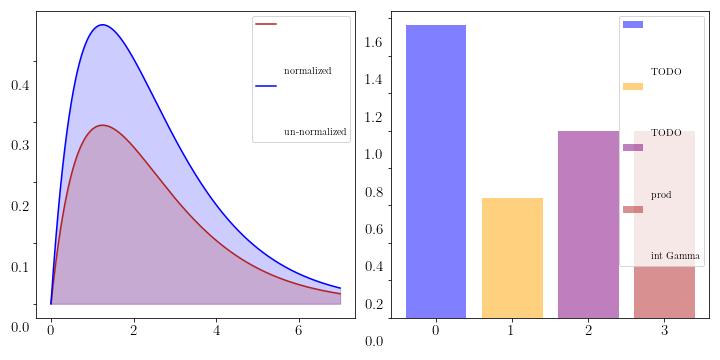
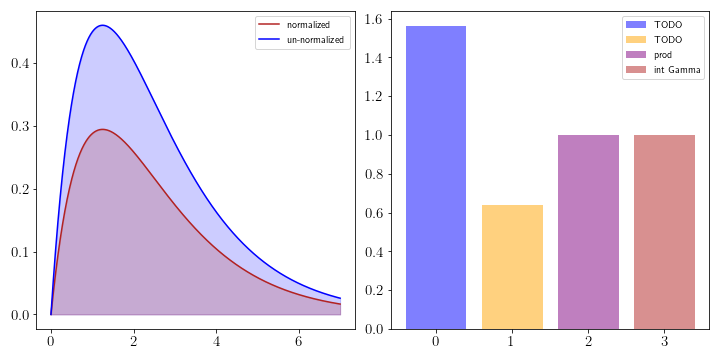
updates ExpFam

diff --git a/_posts/2021-05-01-ExpFam_tutorial.md b/_posts/2021-05-01-ExpFam_tutorial.md
@@ -17,10 +17,12 @@ Exponential family distributions are important for many classical machine learni
 
 A probability density function (pdf) that can be written in the form 
 
-\begin{align}\label{EF}
+$$
+\begin{aligned}\label{EF}
 p(x) &= h(x)\cdot \exp\left(w^\top \phi(x) - \log Z(w) \right) \\
-\qquad\text{where}\qquad Z(w)&:= \int_{\mathbf{X}} \exp\left(w^\top \phi(x)\right) \,dh(x)
-\end{align}
+\qquad\text{where}\qquad Z(w)&:= \int_{\mathbf{X}} h(x)\exp\left(w^\top \phi(x)\right) \,dx
+\end{aligned}
+$$
 
 is called an exponential family where $$\phi(x): \mathbb{X} \rightarrow \mathbb{R}^d$$ is called sufficient statistics, $$w \in \mathcal{D} \subseteq \mathbb{R}^d$$: natural parameters where $$\mathcal{D}$$ is the domain of valid parameters, $$\log Z(w): \mathbb{R}^d \rightarrow \mathbb{R}$$: (log) partition function (normalization constant), and $$h(x): \mathbb{X} \rightarrow \mathbb{R}_{+}$$: base measure.
 
@@ -49,14 +51,21 @@ to rediscover the mean and standard deviation which are also sufficient estimato
 
 The **natural parameters** are the set of parameters $$w$$ for which $$p(x)$$ is defined. They are related to but usually not the same as the parameters of the probability distribution. The parameters of the normal distribution, for example, are its mean $$\mu$$ and standard deviation $$\sigma$$. Its natural parameters, however, are $$w_1 = \frac{\mu}{\sigma^2}$$ and $$w_2 = -\frac{1}{2\sigma^2}$$. 
 
-The **base measure** is the most fuzzy part of exponential families in my experience. This is because I can arbitrarily shift values between the natural parameters and the base measure. For example, the following three equations are all possible legitimate definitions of the Beta distribution in exponential family form. 
+The **base measure** is the most fuzzy part of exponential families in my experience. This is because I can arbitrarily shift values between the natural parameters and the base measure. For example, the following three equations are all possible legitimate definitions of the Beta distribution in exponential family form but they have different base measures and natural parameters.
 
-TODO example of the Beta distribution. 
+$$
+\begin{aligned}
+	\mathcal{B}(x, \alpha, \beta) &= 1 \cdot \exp\left[(\alpha-1)\log(x) + (\beta-1)\log(1-x) - \log B(\alpha, \beta) \right] \\
+	&= \frac{1}{x(x-1)} \exp\left[(\alpha)\log(x) + (\beta)\log(1-x) - \log B(\alpha, \beta) \right] \\
+	&= \frac{1}{x^2(x-1)^2} \exp\left[(\alpha+1)\log(x) + (\beta+1)\log(1-x) - \log B(\alpha, \beta) \right]
+\end{aligned}
+$$
 
 However, the most reasonable definition is one where we push all "left-over" parts from the natural parameters into the base measure, e.g. the $$-1$$ terms in the Beta distribution. The reason why it is called "base-measure" is that if you set your natural parameters $$w$$ to 0, everything that's left is your base. Similarly, you could say that changing your natural parameters $$w$$ can be seen as updating your base measure $$h(x)$$. 
 
-The **log-partition function:** is the most underrated part of exponential families in my opinion. In the beginning I perceived it as "just a normalizing constant" such that your distribution integrates to 1. However, the fact that it is available in closed form combined with the structure of exponential families yields very powerful properties. I will discuss them further down in more detail but, in short, the log partition function allows for efficient computation of the moments through derivation instead of integration. This is a game changer because derivation is usually much easier than integration. To understand the normalizing effect of the log partition function consider the following figure where the TODO distribution has been plotted with and without the normalizing constant. 
-TODO: equations of pdfs with and without Z. 
+The **log-partition function:** is the most underrated part of exponential families in my opinion. In the beginning I perceived it as "just a normalizing constant" such that your distribution integrates to 1. However, the fact that it is available in closed form combined with the structure of exponential families yields very powerful properties. I will discuss them further down in more detail but, in short, the log partition function allows for efficient computation of the moments through derivation instead of integration. This is a game changer because derivation is usually much easier than integration. To understand the normalizing effect of the log partition function consider the following figure where the Gamma distribution has been plotted with and without the normalizing constant. 
+
+TODO: naming scheme
 
 <figure>
   <img src="/img/ExpFam_Vis/log_partition_gamma.png"/>
@@ -72,10 +81,12 @@ Exponential Families have a lot of interesting properties. I chose a small selec
 
 Due to the properties of the exponential function, the multiplication and division of exponential family PDFs can be done in closed form as long as the resulting natural parameters are valid. If we have an exponential family with two different parameterizations $$w_1$$ and $$w_2$$. Then we can write
 
-$$\begin{align}
+$$
+\begin{aligned}
 p_1(x) \cdot p_2(x) &= \frac{1}{Z} \exp((w_1 + c) \phi(x)) \cdot \frac{1}{Z} \exp((w_2 + c) \phi(x)) \\
 	&= \frac{1}{Z'} \exp((w' + c') \phi(x))
-\end{align}$$
+\end{aligned}
+$$
 
 which is again in the form of the same exponential family. A similar result can be derived for division just that $$w' = w_1 - w_2$$ instead of $$w' = w_1 + w_2$$. Of course, the $$w'$$ have to be valid parameters, e.g. the variance of a Gaussian cannot be negative. To see this property visually for the Beta and Normal distribution consider the following figure.
 
@@ -115,11 +126,16 @@ The posterior updates have a very intuitive interpretation. If we have more data
 
 #### Mean of a Normal (with known variance)
 
-The conjugate prior for the **mean** of a Gaussian (**not** the entire Gaussian distribution) is a Gaussian. In other words, the more data points you have from a Gaussian distribution the more certain you are about its mean. 
+The conjugate prior for the **mean** of a Gaussian (**not** the entire Gaussian distribution) is a Gaussian. In other words, the more data points you have from a Gaussian distribution the more certain you are about its mean. The update equations for this setup are
 
-TODO update equation
+$$
+\begin{aligned}
+	v' &= \frac{1}{\frac{1}{\sigma_0^2} + \frac{n}{\sigma^2}} \\
+	m' &= v' \cdot \left(\frac{\mu_0}{\sigma_0^2} + \frac{\sum_i x_i}{\sigma^2} \right)
+\end{aligned}
+$$
 
-TODO GIF for normal
+![](/img/ExpFam_Vis/Normal_mean.gif)
 
 Our goal is to estimate the mean of the Gaussian distribution on the right, i.e. the red line. In the beginning we have no clue about its position and start with a standard normal prior (blue line on the left). The more samples (black) we see from the true distribution, the more our posterior estimate for the mean (red line on the left) gets closer to the true mean and its variance decreases. 
 
@@ -127,7 +143,7 @@ Our goal is to estimate the mean of the Gaussian distribution on the right, i.e.
 
 The Gamma is a distribution over positive quantities. It is a conjugate prior to the rate parameter of<a href='https://en.wikipedia.org/wiki/Poisson_distribution'>Poisson</a> likelihoods, which are discrete distributions over rare events, e.g. earth quakes. So if you have count data of earth quakes and you assume them to be generated by a Poisson distribution you can get a posterior distribution over its rate parameter with $$\alpha' = \alpha + \sum_i x_i$$ and $$\beta' = beta + n$$
 
-TODO: GIF for Gamma with Poisson
+![](/img/ExpFam_Vis/Gamma_Poisson.gif)
 
 We find that with more data the posterior distribution over the $$\lambda$$ rate parameter gets closer to the true value of 0.5 and the uncertainty decreases. 
 
@@ -135,7 +151,7 @@ We find that with more data the posterior distribution over the $$\lambda$$ rate
 
 Similar to how the Beta distribution describes believes about one probability, the Dirichlet describes beliefs about a probability vector. It is a conjugate prior to categorical and multinomial likelihoods. Let's say, for example, we have three categories (or types) of texts: politics, finance and sports and we read a newspaper containing three texts every day. They can contain multiple texts of the same type. Then we might be interested in which kind of focus the publisher has, i.e. what the generating distribution for the texts is. Every individual newspaper can be modelled by a Binomial distribution with $$n=3$$. The generating can be modelled by a Dirichlet and updated with $$\alpha' = \alpha + \sum_i x_i$$.
 
-TODO GIF
+![](/img/ExpFam_Vis/Dirichlet.gif)
 
 We can see that the mean of the posterior Dirichlet function gets ever closer to the true probabilities generating the Binomial likelihoods and that the uncertainty of our estimate decreases. In our metaphor this means that after seeing 10 individual newspapers we think that the outlet focuses mostly on politics (60%), a bit on finance (25%) and even less on sports (15%). 
 
@@ -145,21 +161,29 @@ The inverse Wishart is a distribution over symmetric positive semi-definite matr
 
 First of all, the inverse Wishart (and the Wishart) distribution is defined on the symmetric positive semi-definite (psd) cone. The psd cone is a subspace of $$\mathbb{R}^d$$ on which all psd matrices lie. A real symmetric matrix $$\begin{pmatrix} a & b \\ b & c \end{pmatrix}$$ is psd iff $$a, c \geq 0$$ and $$ac - b^2 \geq 0$$. following <a href='https://math.stackexchange.com/questions/1875462/how-to-plot-the-psd-cone-in-matlab'>this stackoverflow post</a>, we will represent this by $$(a, b, c) \in \mathbb{R}^3$$. If we set $$a=1$$ then $$c \geq b^2$$ and if we set $$c=1$$ then $$a \geq b^2$$. So if we plot $$(a,b,c) = (1, b, b^2)$$ and $$(a,b,c) = (b^2, b, 1)$$ for $$-1 \leq y \leq 1$$ resptively and join these points with $$(0,0,0)$$ we start to see the cone. 
 
-TODO: plot psd cone.
+<figure>
+  <img src="/img/ExpFam_Vis/PSD_cone_vis.png"/>
+</figure>
+
+If you want to view the cone from different angles you can do so in the respective jupyter notebook. 
 
 It is very hard to plot the density of a probability distribution on this cone. Thus we have to revert to other strategies to plot the Wishart distribution. I will use three different tools to plot the Wishart distribution. The first requires a bit of math. For off diagonal elements of a symmetric psd matrix $$A$$ it holds $$a_{ij}^2 \leq a_{ii} a_{jj}$$ (see e.g. <a href='https://math.stackexchange.com/questions/3018639/off-diagonal-entries-of-a-symmetric-positive-semi-definite-matrix-prove-a-ij'>here</a>). Thus for our 2-dimensional case we know that $$b = \rho \cdot \sqrt{ac}$$ for $$\rho \in (-1, 1)$$. So one way to visualize the Wishart is to plot marginals for different values of $$\rho$$ with increasing $$a$$ and $$c$$. The resulting plot looks like this
 
-TODO image
+<figure>
+  <img src="/img/ExpFam_Vis/Wishart_rhos.png"/>
+</figure>
 
-where TODO: what is red and what is blue? What does it means that they are not the same? 
+where the values of $$\rho$$ are $$-0.9,-0.8,...,0.8,0.9$$ from the most blue to the most red curve respectively. The $$\Psi$$ chosen for this figure is $$\begin{pmatrix} 5 & 1 \\ 1 & 2 \end{pmatrix}$$, i.e. $$a$$ is larger than $$c$$. This is reflected in the asymmetry of the blue and red curves, i.e. negativ values of $$\rho$$ (blue) yields more compressed curves than positive $$\rho$$s (red).
+
+TODO: understand why!
 
 The second and third tool are simpler. The (inverse-) Wishart distribution has a scale matrix parameter $$\Psi$$ which we can plot as a 2x2 heatmap to show the size of the individual entries. The last method is just plotting histograms over $$a,b$$ and $$c$$ for samples drawn from the (inverse-) Wishart. 
 
-To visualize the likelihood we draw samples from a 2-dimensional Gaussian and compute their outer products. The update rules for the inverse Wishart are $$\Psi' = Psi + \sum_i x_i x_i^\top$$ and $\nu' = \nu + n$$. 
+To visualize the likelihood we draw samples from a 2-dimensional Gaussian (top right) and compute their outer products. The update rules for the inverse Wishart are $$\Psi' = Psi + \sum_i x_i x_i^\top$$ and $\nu' = \nu + n$$. 
 
 Combining all this we can inspect how the Wishart distribution behaves when updated with Gaussian outer product likelihoods. 
 
-TODO GIF
+![](/img/ExpFam_Vis/Wishart.gif)
 
 In our first visualization (top left) we find that a) larger values of $$n$$ and $$\Psi$$ imply more probability mass for larger values of $$a$$ and $$c$$. b) The diagonal entries of $$\Psi$$ are equivalent in the beginning, i.e. they are both one and thus $$-\rho$$ and $$+\rho$$ yield the same marginal distribution. After some updates the diagonal values of $$\Psi$$ are different and thus $$\rho$$ and $$+\rho$$ yield different marginal distributions. TODO: is more mass where larger values are?
 
@@ -169,15 +193,117 @@ In the third visualization (bottom right) we find that the histograms of $$a,b$$
 
 ### Moment calculation
 
-TODO: how to visualize this? <- just plot mean and variance? & also log exp. and variance?
+I have already stated that the moments of exponential families can be computed by differentiating the log-partition function. In this section I want to show why this is possible and derive the mean and variance for the Gamma distribution. 
 
-what about moment matching and EP?
+In general, the <a href='https://en.wikipedia.org/wiki/Moment-generating_function'>moment-generating function</a> (MGF) of a random variable $$X$$ is
 
-Useful for Max. LLH & Fisher Information <- TODO understand
+$$M_X(t) := \mathbb{E}\left[e^{tX} \right], \qquad t \in \mathbb{R}$$
+
+wherever this expectation exists. $$M_X(0)$$ always exist and is 1, since probability density functions have to integrate to 1. The <a href='https://en.wikipedia.org/wiki/Cumulant'>cumulant-generating function</a> CGF is defined as the logarithm of the MGF
+
+$$K(t) = \log \mathbb{E} \left[e^{tX} \right], \qquad t \in \mathbb{R}$$
+
+For exponential families this means that the MGF of the sufficient statistics $$\phi(x)$$ is
+
+$$
+M_{\phi(x)}(u) = \mathbb{E}[e^{u^\top \phi(x)} | w] = \int_x h(x) \exp((w+u)^\top \phi(x) - Z(w)) dx = \exp(Z(w + u) - Z(w))
+$$
+
+which means that the CGF is
+
+$$
+K_{\phi(x)}(u) = Z(w + u) - Z(w)
+$$
+
+The CGF is a Taylor series and the $$n$$-th cumulant can thus be obtained by differentiating the function $$n$$ times and evaluating the result at $$0$$. For the above expression this is mathematically equivalent to taking the $$n$$-th derivatives of $$Z(w)$$ to get the $$n$$-th cumulant. In general, the cumulants are not similar to the central moments of a probability distribution. However, the mean, variance and third central moment they are identical and for the rest of this tutorial we only care about the first and second central moments. 
+
+To illustrate this further, we derive the mean and variance of the Gamma distribution (the same derivation can also be found on <a href='https://en.wikipedia.org/wiki/Exponential_family#Example_1'>Wikipedia</a>). The pdf of the Gamma distribution is
+
+$$
+p(x) = \frac{\beta^\alpha}{\Gamma(\alpha)} x^{\alpha-1} e^{-\beta x}
+$$
+
+and its natural parameters are $$w_1 = \alpha-1$$ and $$w_2 = -\beta$$. Their reverse substitutions are $$\alpha = w_1 + 1$$ and $$\beta = -w_2$$. The sufficient statistics are $$(\log x, x)$$ and the log-partition function as a function of the natural parameters is
+
+$$
+Z(w_1, w_2) = \log \Gamma(w_1 + 1) - (\w_1 + 1) \log(-\w_2)
+$$
+
+To compute the mean we need to differentiate the log-partition function w.r.t. $$w_2$$ since the second sufficient statistic is $$x$$. Thus
+
+$$
+\begin{aligned}
+\mathbb{E}[x] &= \frac{\partial Z(w_1, w_2)}{\partial w_2} \\
+	&= -(w_1 + 1)\frac{1}{-\w_2}(-1) = \frac{w_1 + 1}{-w_2} \\
+	&= \frac{\alpha}{\beta}
+\end{aligned}
+$$
+
+To compute the variance we differentiate twice and get 
+
+$$
+\begin{aligned}
+\Var(x) &= \frac{\partial^2 Z(w_1, w_2)}{\partial w_2} \\
+	&= \frac{\partial}{\partial w_2} \frac{w_1 + 1}{-w_2} \\
+	&= \frac{\alpha}{\beta^2}
+\end{aligned}
+$$
+
+We can visually confirm, that these approximations are correct by comparing sampling-based and closed-form solutions.
+
+<figure>
+  <img src="/img/ExpFam_Vis/gamma_expectations.png"/>
+</figure>
+
+Similar to above we can also compute the moments for the other sufficient statistics, e.g. $$\mathbb{E}[\log x]$$ and $$\Var(\log x)$$. 
+
+All of the moments above could have also be computed using integration but it is significantly more complicated than simple differentiation. 
 
 ### Moment Matching
 
-TODO: KL divergence is minimized for matching moments. 
+Let's say we have two distributions $$p(x)$$ and $$q(x)$$ where $$p$$ is any fixed distribution and $$q$$ is a member of an exponential family. Then we can show that the <a href='https://en.wikipedia.org/wiki/Kullback%E2%80%93Leibler_divergence'>KL-divergence</a> $$KL(p||q)$$ between the two distributions is minimized by matching their moments, e.g. setting the mean and variance of $$p(x)$$ to that of $$q(x)$$. We write
+
+$$\begin{aligned}
+KL(p||q) &= \int p(x) \log\frac{p(x)}{q(x)} dx \\
+	&= \int p(x) \log p(x) dx - \int p(x) \log q(x) dx \\
+	&= \mathbb{E}_{p(x)}[\log p(x)] - \int p(x) \log\exp(w \phi(x) + \log h(x) - \log Z(w)) dx \\
+	&= \mathbb{E}_{p(x)}[\log p(x)] - \mathbb{E}_{p(x)}[\log h(x)] - \mathbb{E}_{p(x)}[w \phi(x)] + \mathbb{E}_{p(x)}[\log Z(w)]
+\end{aligned}
+$$
+
+which as a function of $$w$$ is
+
+$$
+KL_w(p||q) = - \mathbb{E}_{p(x)}[w \phi(x)] + \log Z(w)
+$$
+
+where the expectation around $$\log Z(w)$$ vanishes as it is independent of $$x$$. To get the optimal values for $$w$$ we compute the first derivative w.r.t. $$w$$ and set it to zero. 
+
+$$\begin{aligned}
+\nabla KL_w(p||q) &= - \mathbb{E}_{p(x)}[\phi(x)] + \nabla_w \log Z(w) \overset{=}{!} 0 \\
+	\Leftrightarrow \nabla_w \log Z(w) &= \mathbb{E}_{p(x)}[\phi(x)] \\
+	\Leftrightarrow \mathbb{E}_{q(x)}[\phi(x)]  &= \mathbb{E}_{p(x)}[\phi(x)] 
+\end{aligned}
+$$
+
+where we use the knowledge that the derivatives of the log-partition function yield the moments of the distribution which we derived in the previous section. The visual intuition behind this fact can be found in the following figure. Our static distribution $$p(x)$$ is a normal with $$\mu=4$$ and $$\sigma=1$$ and we want to fit a Gamma distribution $$q(x)$$ such that $$KL(p||q)$$ is minimized. To match the moments we compute
+
+$$\begin{aligned}
+	\mu &= \frac{\alpha}{\beta} \\
+	\sigma^2 &= \frac{\alpha}{\beta^2} \\
+	\Rightarrow \alpha = \frac{\mu^2}{\sigma^2} = 16\\
+	\Rightarrow \beta = \frac{\mu}{\sigma^2} = 4
+\end{aligned}$$
+
+We can then compare the empirical KL divergences for different pairs of parameters around the theoretically optimal solution to convince ourselves that we have the best fit. 
+
+<figure>
+  <img src="/img/ExpFam_Vis/moment_matching_gamma.png"/>
+</figure>
+
+TODO change color scheme for left picture
+
+This property of matching the moments (or expectations) gives name to Expectation Propagation since one of its central steps is to fit an exponential family by moment matching. 
 
 ## Conclusion
 
